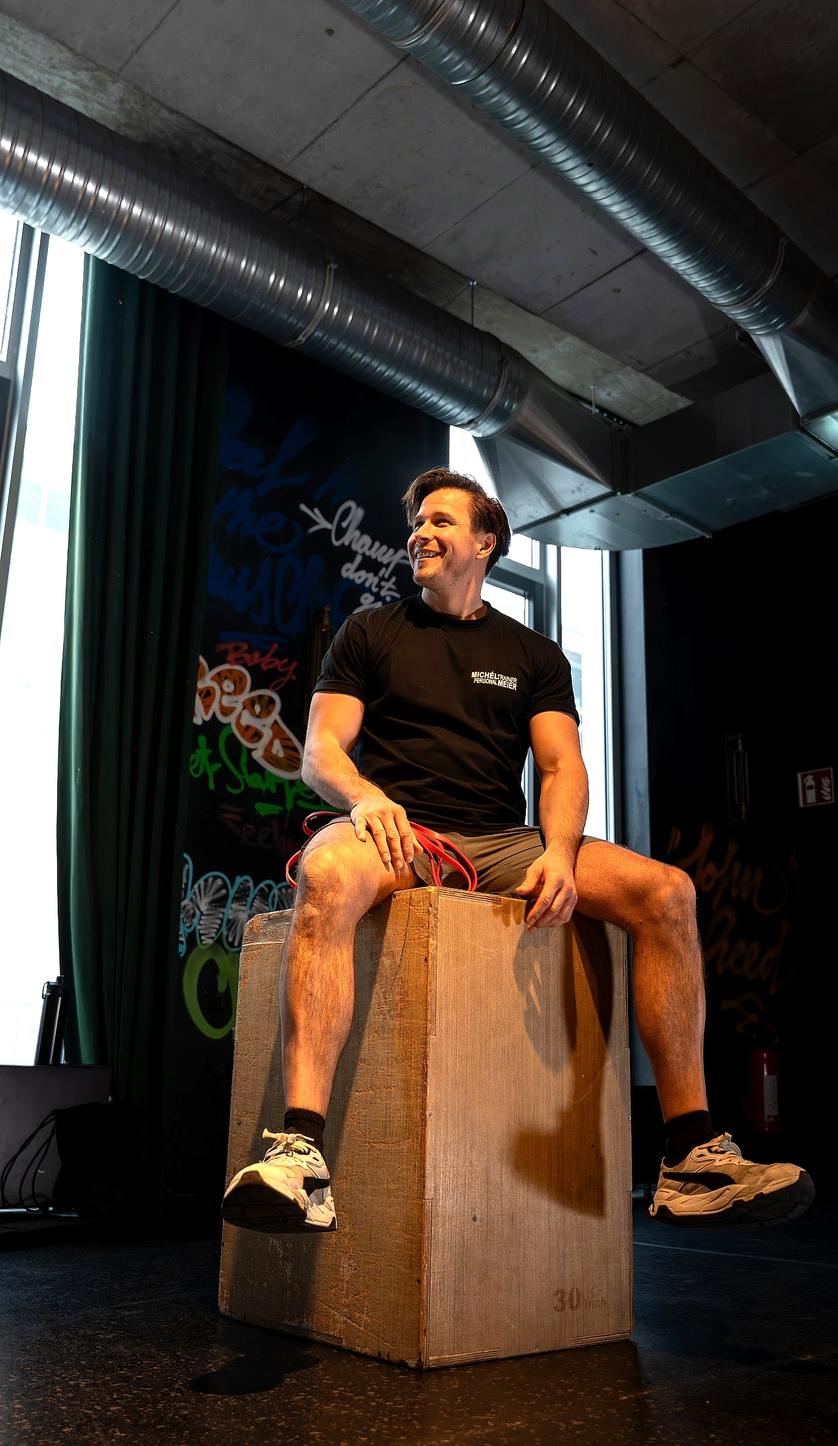
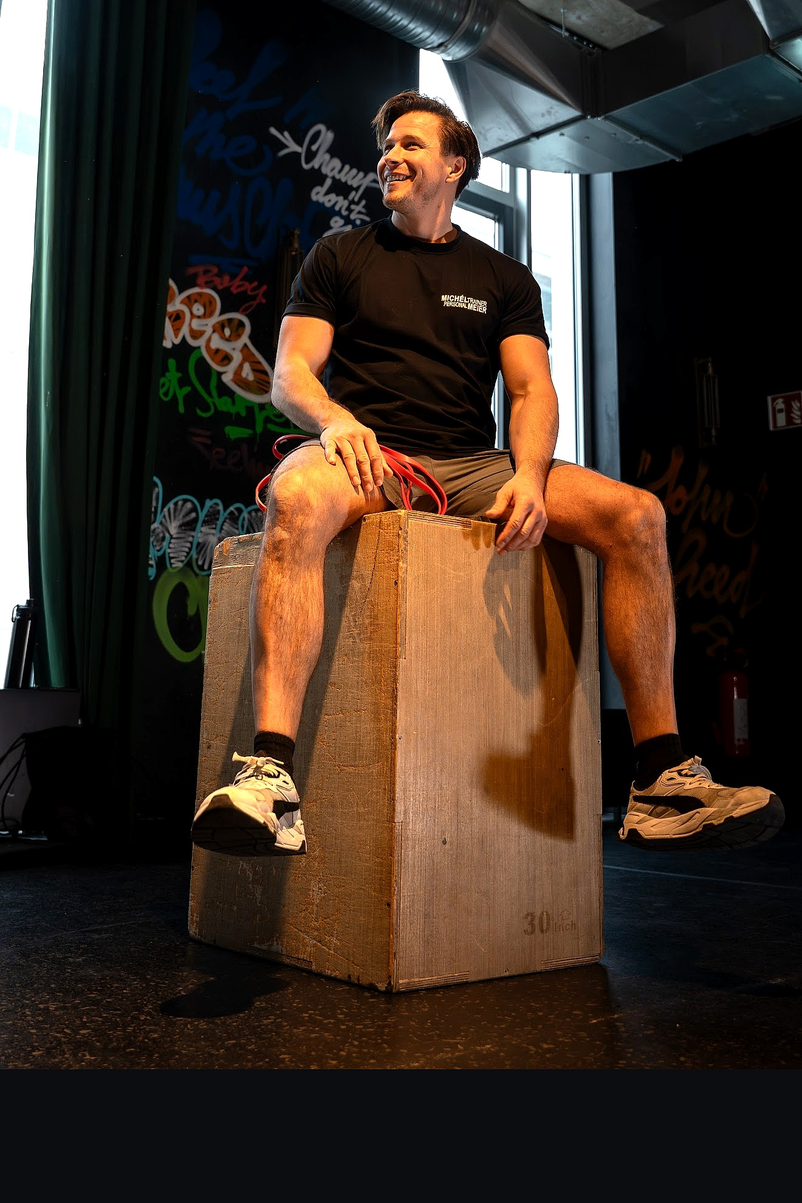
feat(ueber-mich): crop ceiling pipes so Michel and feet are elevated cleanly above the text box

diff --git a/src/routes/ueber-mich.tsx b/src/routes/ueber-mich.tsx
@@ -87,13 +87,13 @@ function UeberMichPage() {
             {/* Authentic Studio Portrait */}
             <div className="lg:col-span-5 flex justify-center relative">
               <div className="relative w-full max-w-md">
-                <div className="rounded-3xl overflow-hidden border-2 border-gold/40 shadow-[var(--shadow-gold)] bg-black/40 aspect-[3/5] relative group">
+                <div className="rounded-3xl overflow-hidden border-2 border-gold/40 shadow-[var(--shadow-gold)] bg-black/40 aspect-[2/3] relative group">
                   <img
                     src="/images/gym-shooting/A7401490_enhanced.jpg"
                     alt="Michél Meier – Master Personal Trainer i.A. & Gründer M³"
-                    className="w-full h-full object-cover object-top group-hover:scale-105 transition-transform duration-700"
+                    className="w-full h-full object-cover object-center group-hover:scale-105 transition-transform duration-700"
                   />
-                  <div className="absolute inset-0 bg-gradient-to-t from-black/80 via-transparent to-transparent pointer-events-none" />
+                  <div className="absolute inset-0 bg-gradient-to-t from-black/75 via-transparent to-transparent pointer-events-none" />
                   <div className="absolute bottom-3.5 left-3.5 right-3.5 p-3.5 rounded-2xl bg-black/65 backdrop-blur-md border border-white/10 text-left">
                     <div className="font-display font-extrabold text-base sm:text-lg text-white">Michél Meier</div>
                     <div className="text-[11px] sm:text-xs font-semibold text-gold tracking-wide">
